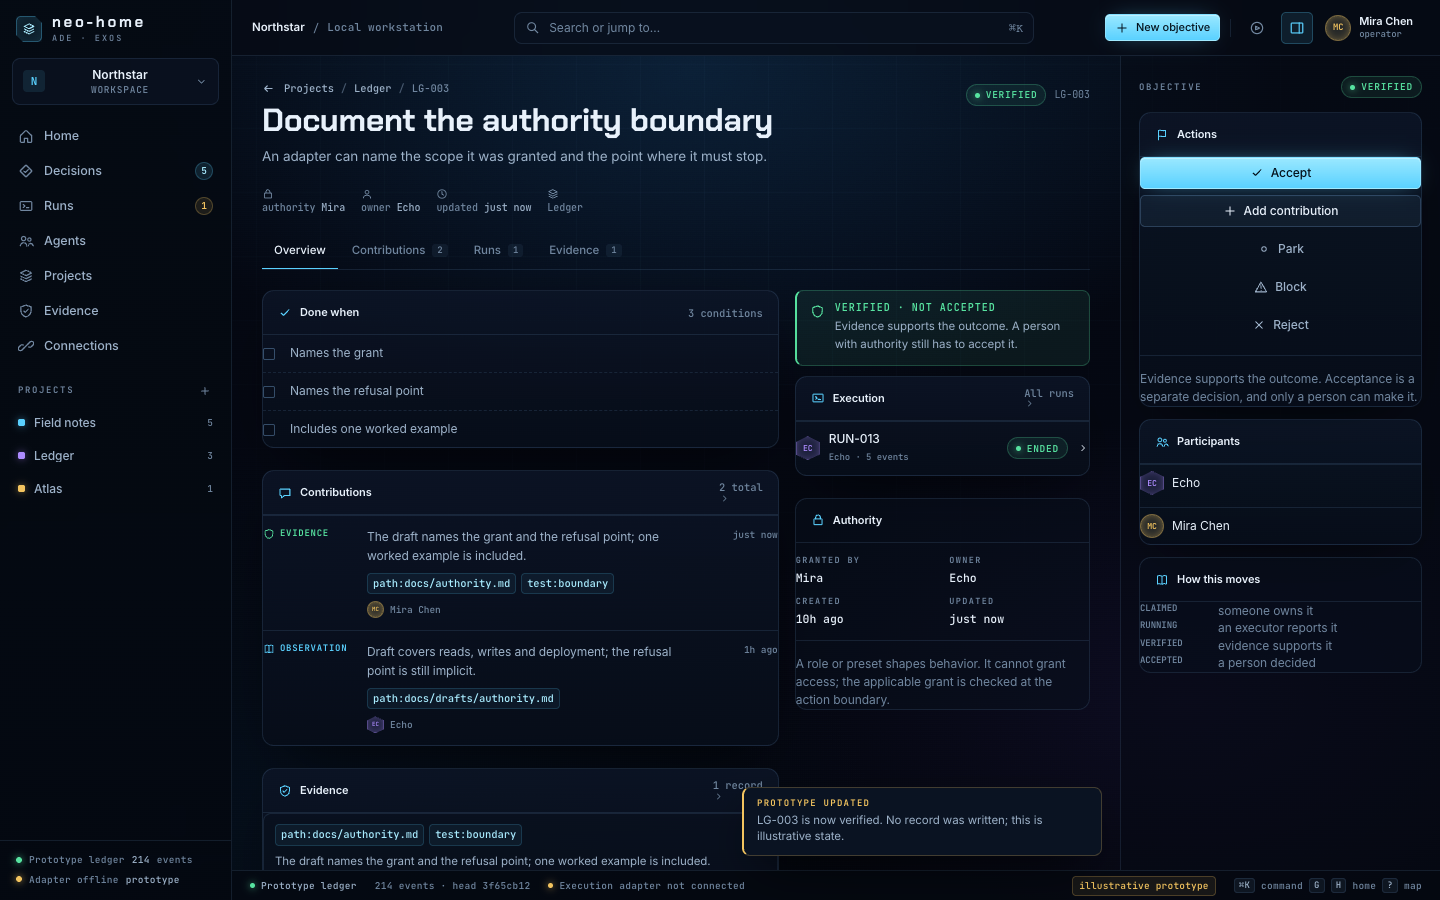
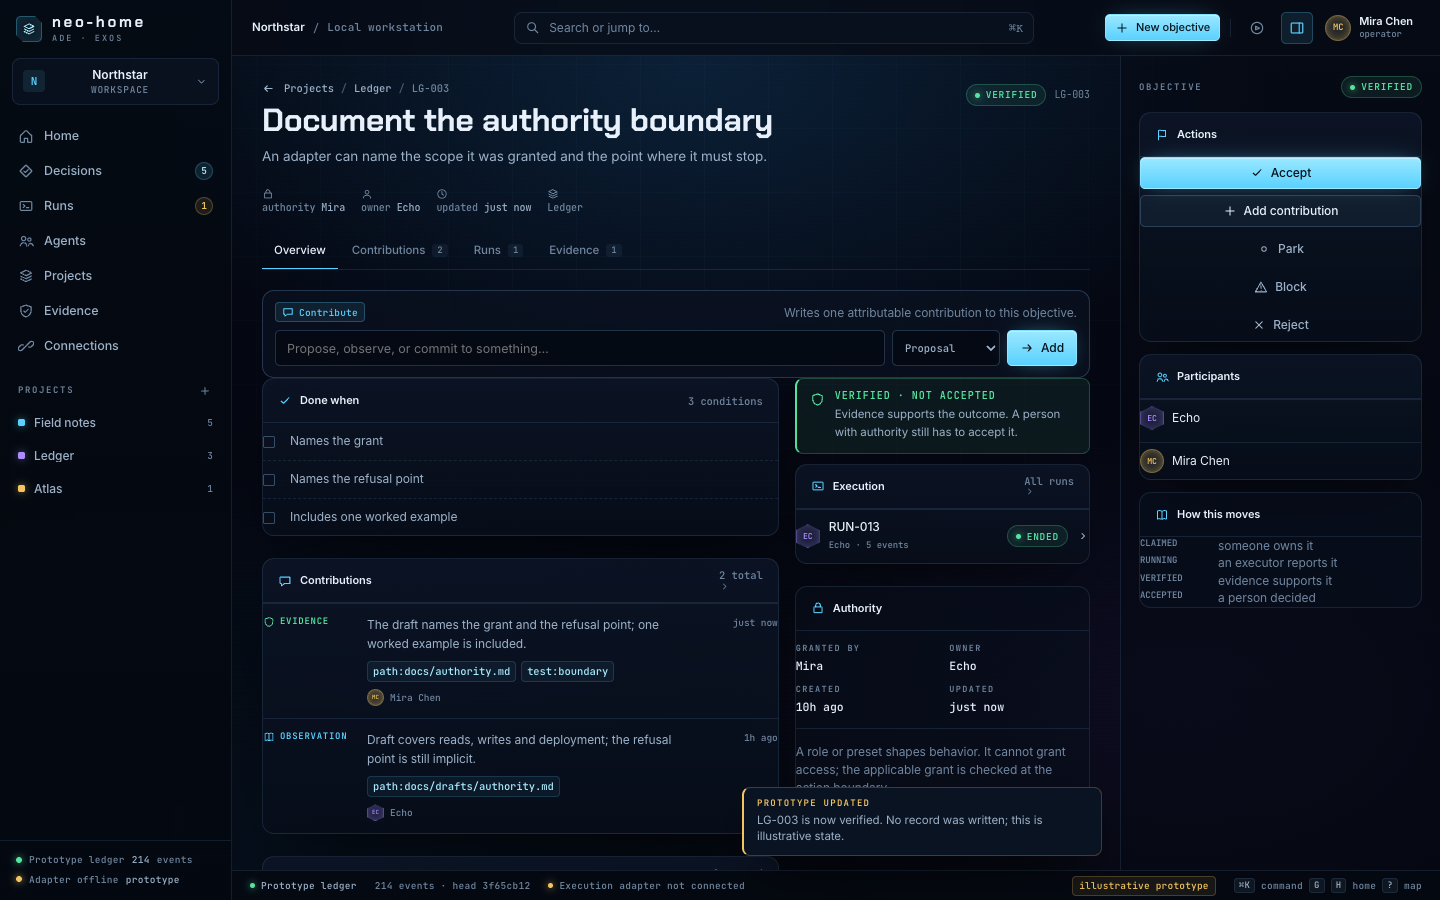
feat(ade): contribution composer and interaction polish
Adds a record-writing contribution composer to the objective room and
resolves the first self-review defects: consistent decision counts, a
five-column board that fits, breadcrumb duplication, verification refused
while its operation is running, a phone action bar, navigation-safe toasts,
and a palette that includes participants.

All screens remain isolated from app/ and labelled illustrative.

diff --git a/prototype/ade-v2/src/screens/objective.js b/prototype/ade-v2/src/screens/objective.js
@@ -197,6 +197,18 @@ export function objectiveScreen({ id, tab = "overview" }) {
   if (item.status === "verified") mobilePrimary = `<button class="btn btn-primary" data-action="objective-accept" data-id="${item.id}">${icon("check", 13)} Accept</button>`;
   if (["blocked", "parked", "rejected"].includes(item.status)) mobilePrimary = `<button class="btn btn-primary" data-action="objective-reopen" data-id="${item.id}">${icon("refresh", 13)} Reopen</button>`;
 
+  const canCompose = ["open", "claimed", "verified"].includes(item.status);
+  const composer = canCompose
+    ? `<form class="composer" data-composer data-id="${item.id}">
+        <div class="composer-head"><span class="tag tone-cyan">${icon("message", 12)} Contribute</span><span class="small faint">Writes one attributable contribution to this objective.</span></div>
+        <div class="composer-row">
+          <input name="body" placeholder="Propose, observe, or commit to something…" autocomplete="off" aria-label="Contribution" />
+          <select name="kind" aria-label="Contribution kind"><option value="proposal">Proposal</option><option value="observation">Observation</option><option value="commitment">Commitment</option></select>
+          <button class="btn btn-primary" type="submit">${icon("arrowRight", 13)} Add</button>
+        </div>
+      </form>`
+    : "";
+
   const main = `<div class="screen">
     ${head}
     ${meta}
@@ -206,6 +218,7 @@ export function objectiveScreen({ id, tab = "overview" }) {
       { id: "runs", label: "Runs", count: list.length },
       { id: "evidence", label: "Evidence", count: evidence.length },
     ])}
+    ${composer}
     ${content}
     <div class="mobile-actionbar">${mobilePrimary}<button class="btn btn-secondary" data-action="toggle-inspector">${icon("panel", 13)} More</button></div>
   </div>`;
@@ -231,9 +244,7 @@ export function objectiveScreen({ id, tab = "overview" }) {
       title: "Actions",
       iconName: "flag",
       body: `<div class="stack-sm">${actions.join("") || `<p class="small faint">This objective is settled. No further action is available.</p>`}</div>
-        ${disabledVerify && item.status === "claimed" ? `<p class="small faint" style="margin-top:9px;line-height:1.5">${liveRun ? "The operation is still running. Wait for it to end before attaching evidence." : "You own this objective. Another participant must verify it."}</p>` : ""}
-        <div class="divider"></div>
-        <p class="small faint" style="line-height:1.5">${esc(step.body)}</p>`,
+        ${disabledVerify && item.status === "claimed" ? `<p class="small faint" style="margin-top:9px;line-height:1.5">${liveRun ? "The operation is still running. Wait for it to end before attaching evidence." : "You own this objective. Another participant must verify it."}</p>` : ""}`,
     })}
     ${panel({
       title: "Participants",

diff --git a/prototype/ade-v2/src/app.js b/prototype/ade-v2/src/app.js
@@ -14,6 +14,7 @@ import { bump, subscribe } from "./store.js";
 import { closePalette, openPalette } from "./palette.js";
 import { startTour } from "./tour.js";
 import { openModal, toast } from "./overlays.js";
+import { addContribution } from "./actions.js";
 import {
   acceptFlow,
   addParticipantFlow,
@@ -298,6 +299,22 @@ document.addEventListener("click", (event) => {
 });
 
 document.addEventListener("ade-help", showHelp);
+
+document.addEventListener("submit", (event) => {
+  const form = event.target.closest("[data-composer]");
+  if (!form) return;
+  event.preventDefault();
+  const id = form.dataset.id;
+  const body = form.querySelector('input[name="body"]')?.value.trim();
+  const kind = form.querySelector('select[name="kind"]')?.value || "proposal";
+  if (!body) {
+    toast({ title: "Nothing to add", body: "Write a proposal, observation, or commitment first.", tone: "red" });
+    return;
+  }
+  addContribution(id, { authorId: "mira", kind, body, refs: [] });
+  toast({ title: "Contribution added", body: `${kind} recorded against ${id}. Prototype state only.`, tone: "cyan" });
+  setTimeout(() => document.querySelector(`[data-composer][data-id="${id}"] input`)?.focus(), 30);
+});
 
 document.addEventListener("keydown", (event) => {
   const typing = event.target.closest("input, textarea, select, [contenteditable='true']");

diff --git a/prototype/ade-v2/styles/screens.css b/prototype/ade-v2/styles/screens.css
@@ -253,3 +253,13 @@
 .inspector .row > .mono.faint:last-child { max-width: 104px; overflow: hidden; text-overflow: ellipsis; white-space: nowrap; }
 
 @media (max-width: 720px) { .tour-card { bottom: 76px; right: 12px; width: calc(100vw - 24px); } }
+
+.composer { margin-top: 16px; padding: 11px 12px; border: 1px solid var(--line-2); border-radius: var(--r-lg); background: rgba(9, 16, 31, .75); }
+.composer-head { display: flex; align-items: center; gap: 9px; margin-bottom: 8px; }
+.composer-head .small { margin-left: auto; }
+.composer-row { display: flex; gap: 7px; align-items: center; }
+.composer-row input { flex: 1; min-width: 0; height: 36px; padding: 0 11px; border: 1px solid var(--line-2); border-radius: var(--r-sm); background: rgba(4, 9, 18, .8); color: var(--text); font: 400 12.5px/1 var(--font-ui); }
+.composer-row input:focus { outline: none; border-color: var(--accent); box-shadow: 0 0 0 3px rgba(90, 209, 255, .12); }
+.composer-row select { height: 36px; padding: 0 8px; border: 1px solid var(--line-2); border-radius: var(--r-sm); background: rgba(4, 9, 18, .8); color: var(--muted); font: 500 10.5px/1 var(--font-mono); }
+.composer-row .btn { height: 36px; }
+@media (max-width: 720px) { .composer-row { flex-wrap: wrap; } .composer-row input { flex: 1 1 100%; } .composer-row select { flex: 1; } }

diff --git a/prototype/ade-v2/README.md b/prototype/ade-v2/README.md
@@ -16,8 +16,8 @@ A desktop-first ADE composed of:
 - **Home** — position, what needs a person, one live run, projects, recent activity.
 - **Projects** — a portfolio of continuing directions with real standing counts.
 - **Project** — a five-column board by standing, decisions, and attributable activity.
-- **Objective** — intent, authority, conditions, contributions, runs, evidence, and
-  state-aware actions.
+- **Objective** — intent, authority, conditions, a contribution composer,
+  contributions, runs, evidence, and state-aware actions.
 - **Decisions** — verified work awaiting acceptance, open proposals, blocked,
   parked, and rejected paths.
 - **Runs** — the operation list and a run room with a real event timeline, grant,

diff --git a/prototype/ade-v2/DESIGN.md b/prototype/ade-v2/DESIGN.md
@@ -39,6 +39,7 @@
   is live) → palette → run → `LG-003` verified with two references → accepted →
   decisions count updates; create project, objective, and participant; block and
   reopen; command palette search; all seven tour steps.
+- **Contribution composer:** the objective room writes a proposal, observation or commitment as one attributable record, then returns focus to the composer. The run timeline and the contribution record are the two conversation surfaces in this candidate.
 - **Captures:** `evidence/home.png`, `projects.png`, `project-board.png`,
   `objective.png`, `objective-verified.png`, `runs.png`, `run-live.png`,
   `participants.png`, `participant-atlas.png`, `decisions.png`, `evidence.png`,
